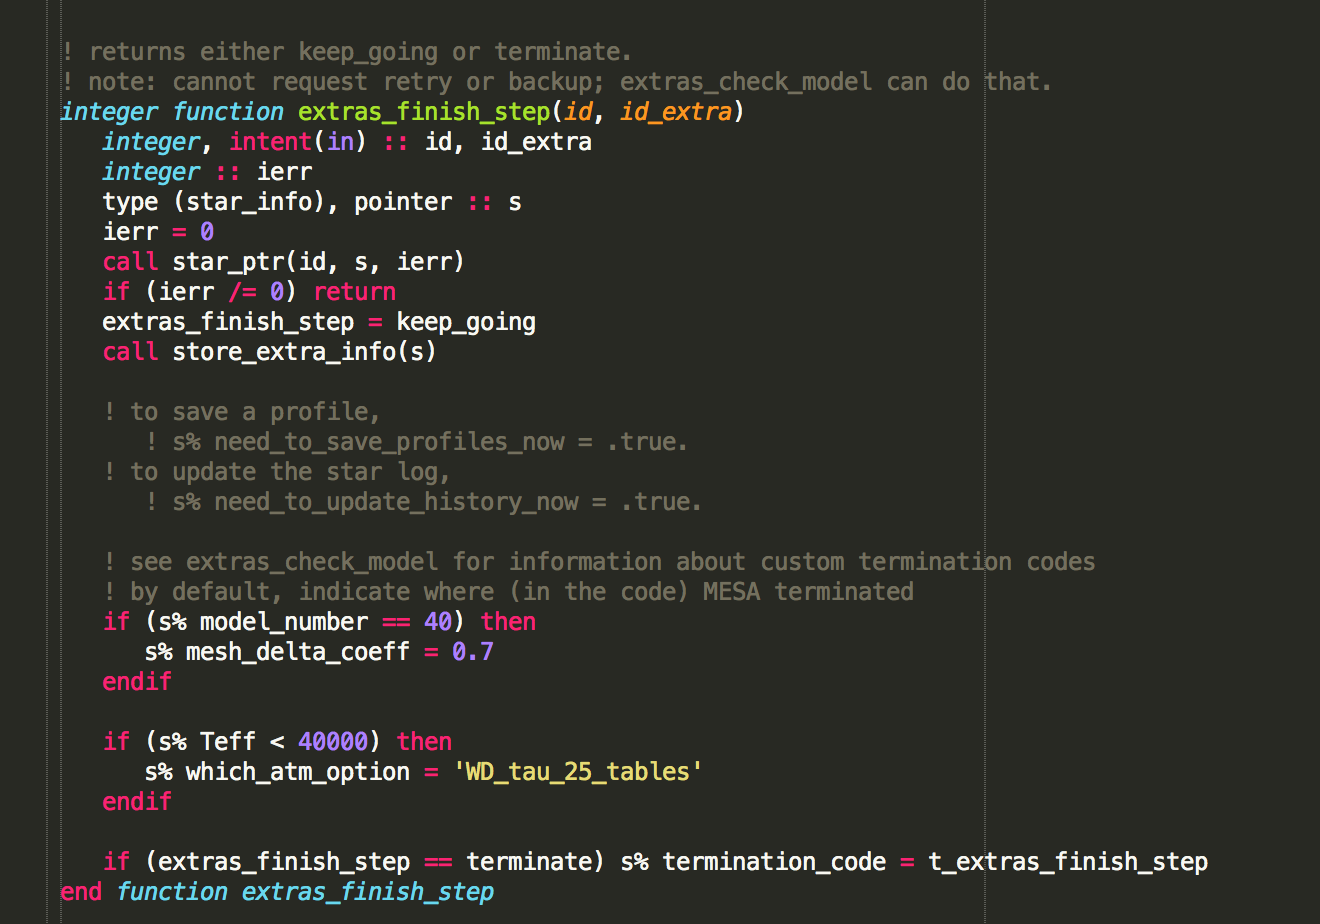
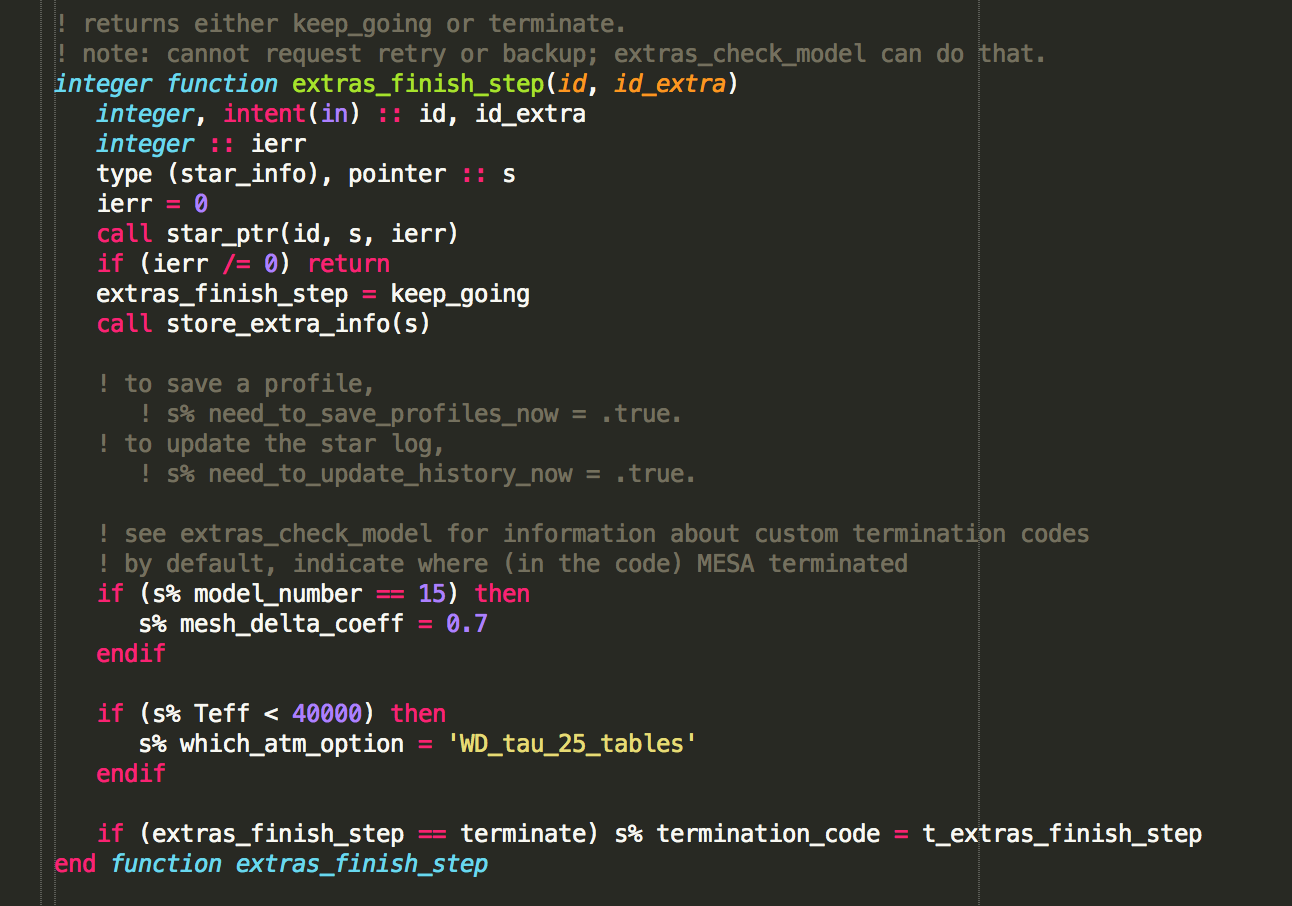
Updates from ShareLaTeX

Changed region(s): [[0.031, 0.0, 0.9288, 0.989]]

diff --git a/latex/white_dwarf_lf.tex b/latex/white_dwarf_lf.tex
@@ -40,7 +40,7 @@ We want to use \texttt{run\_star\_extras.f} to make those changes. If you open t
 
 \begin{enumerate}
     \item Copy the content of \texttt{standard\_run\_star\_extras.inc} into the \texttt{run\_star\_extras.f} file in place of the line \texttt{include `standard\_run\_star\_extras.inc'}. You can see that these are just the standard \texttt{run\_star\_extras} routines. After copying the content into your \texttt{run\_star\_extras.f}, it is safe to try and make your folder to check if you copied everything all right.
-    \item Use \texttt{run\_star\_extras.f} to change the \texttt{mesh\_delta\_coeff} to 0.7 after the 40th model.
+    \item Use \texttt{run\_star\_extras.f} to change the \texttt{mesh\_delta\_coeff} to 0.7 after the 15th model.
     \item Use \texttt{run\_star\_extras.f} to change the atmosphere boundary conditions to \texttt{'WD\_tau\_25\_tables'} when the effective temperature falls lower than 40,000 K.
 \end{enumerate}
 
@@ -132,6 +132,7 @@ You can use the include program \texttt{makefakehistory.py} to recalculate the t
 
 \section{Observations}
 
+\subsection{The outer field}
 We have included a file with the observed fluxes of about 2,000 old white dwarfs in the globular cluster 47 Tucanae.  The white dwarfs that are being born in this cluster come from stars whose masses are just a bit less than the mass of the Sun.   Because the white dwarfs are relatively young compared to the age of the cluster, we can assume that they are being born at a constant rate, so their cumulative luminosity function is an estimate of their cooling evolution.
 
 The file with the observed white dwarfs is called \texttt{47tuc\_fromIR.dat} and presents the observed magnitudes in the Hubble filters F814W (second column) and F606W (third column), and the difference between the two (first column).
@@ -149,15 +150,24 @@ Now that we have the magnitudes in 814 and 606, we can finally compare our model
 \textbf{Task:}\vspace{-1em}
 \begin{enumerate}
 \item Load the file \texttt{47tuc\_fromIR.dat}.
-\item Make a CMD plotting he colour $F814W$ against $F606W-F814W$ from the data. This is the WD cooling sequence of 47 Tucanae.
-\item Add both theoretical curves on the plot: the one called \texttt{paintedhistory\_ex.data} and the one you made.
-\item You can see that both of them fall far from the data. That's because the models are still in absolute magnetudes, while the data is in observed magnitudes. In order to compare them, we need to add the distant modulus (13.45) and reddening (0.65) to the models, for example:
+\item Make a CMD plotting the colour $F814W$ against $F606W-F814W$ from the data. This is the WD cooling sequence of 47 Tucanae.
+\item Add both theoretical curves on the plot: the one called \texttt{paintedhistory\_ex.data} and the one you made. And others if you made more than one.
+\item You can see that both of them fall far from the data. That's because the models are still in absolute magnetudes, while the data is in observed magnitudes. In order to compare them, we need to add the distant modulus (13.45) and reddening (0.065) to the models, for example:
 \begin{verbatim}
     plt.plot(pdata['F606W']-pdata['F814W']+0.065,pdata['F814W']+13.45,c='r')
 \end{verbatim}
 \item Now we can compare them. Which evolution does the data agree with the best?
 \end{enumerate}
 
+If we assume that the white dwarfs in the cluster are born at a constant rate, we can use their cumulative luminosity function as a proxy for their cooling evolution. In the file \texttt{47tuc\_fromIR.dat} there is a column called `cumweight', that indicates, for each star, how many stars we expect in the field at that magnitude of brighter. This cumulative distribution is calculated by counting how many stars are in the image and correcting the number for the ones that the telescope might have missed (the completeness is given as a percentage in the column `comp'. In this field, which is in the outskirts of the cluster, we estimated the birth rate to be about 1 WD every $10^6$ years.
+
+\textbf{Task:}\vspace{-1em}
+\begin{enumerate}
+\item Plot the magnitude in $F814W$ against the cumulative distribution divided by the birth rate. You will get the cooling curve of the white dwarfs in the cluster. Make the x-axis logarithmic.
+\item On top of it, plot the magnitude in $F814W$ against the log of the star age for your theoretical models. And don't forget to add the distance modulus!
+\item Since the zero age of the WD we chose is arbitrary, you might have to add or subtract some small constant to the age of your models to make them fit better the data. 
+\item Which evolution does the data agree with the best?
+\end{enumerate}
 
 
 \textbf{Bonus Task:}\\
@@ -169,19 +179,18 @@ The key parameter to plot is the specific entropy but it doesn't get output in t
 
 }
 
-\textbf{Task: Young White Dwarfs}
-Young white dwarfs are the brightest stars in the cluster in the ultraviolet.  We have provided a list of young white dwarfs in 47 Tucanae for you to study.
+\subsection{The inner field}
+
+In the file \texttt{47tuc\_fromUV.dat} you can find the observed flux from about 3000 white dwarfs. These white dwarfs live in the center of the cluster, where the density of stars is extremely high. For this reason, it is hard to detect white dwarfs in the visible or in the infrared, as the light is dominated by the very bright red giants. However, young white dwarfs are the brightest objects in the UV, because they are very hot. That's why we observed them in the filters $F225W$ and $F336W$ with Hubble. You can see the UV image here: \url{http://coolpulsars.org/images/47TucCore_Image/}.
+
+This set of young white dwarfs in the UV is what we are going to use in the next lab, so let's take a look at it.
+
+\textbf{Task: Young White Dwarfs}\vspace{-1em}
 \begin{enumerate}
  \setlength\itemsep{0em}
-\item Plot the magnitude $F225W$ against $F225W-F336W$ from your models
-\item Plot $F225W$ against time.
-\item Add the observed  data to the two plots.  
-\item Which evolution do they agree with the best?
+\item Make a CMD with the magnitude $F225W$ against $F225W-F336W$ from the data and from your models. The distance modulus is of course the same, but do you need to add reddening in these filters? How much?
+\item Make a cumulative distribution plot for $F225W$ as we did before for $F814W$. This time though, since we are in the center of the clusted and the density of stars is higher, we expect a higher birth rate. Can you figure it out from comparing the models with the data?
 \end{enumerate}
-
-\hint{\textbf{Hint:}
-
-Again how do you have to transform the model magnitudes, colours and ages to fit the observations?  What are the key parameters that you can learn from this step?  Can they be different than in the previous task?}
 
 We will study the young white dwarfs in more detail in the next lab where you will program MESA to vary the neutrino rates within the white dwarfs and see what happens.
 

diff --git a/latex/white_dwarf_neutrino.tex b/latex/white_dwarf_neutrino.tex
@@ -48,15 +48,16 @@ to give ten times the neutrino cooling.
 \end{enumerate}
 \hint{\textbf{Solution:}\\
 \\
-\includegraphics[width=0.8\textwidth]{my_other_neu.png}
-
 \includegraphics[width=0.8\textwidth]{extra_controls.png}
+
+\includegraphics[width=0.8\textwidth]{my_other_neu.png}
 }
 
 \section{Evolution}
 
 \textbf{Task:}
 \begin{enumerate}
+ \setlength\itemsep{0em}
     \item 
 Run the evolution of the best-fitting model from the previous lab with various neutrino rates, 0.1, 0.3, 3 and 10 times the standard rate.
 \item Use \texttt{paintisochone.py} to calculate the absolute magnitudes of your model white dwarfs.
